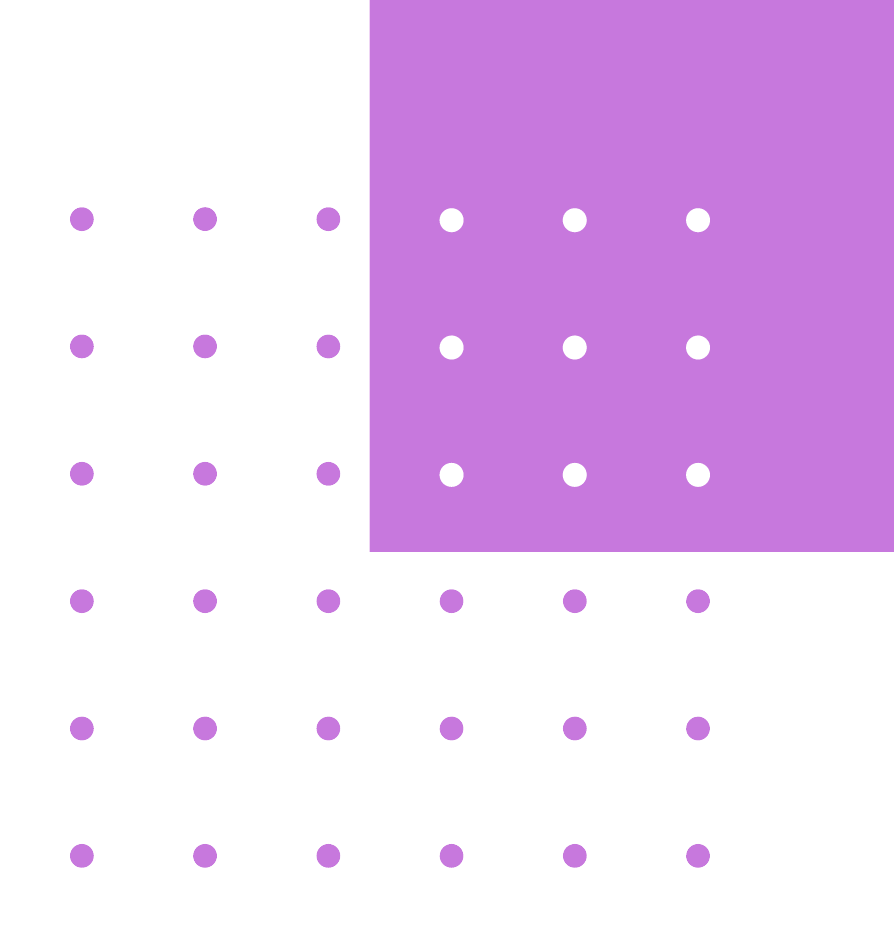
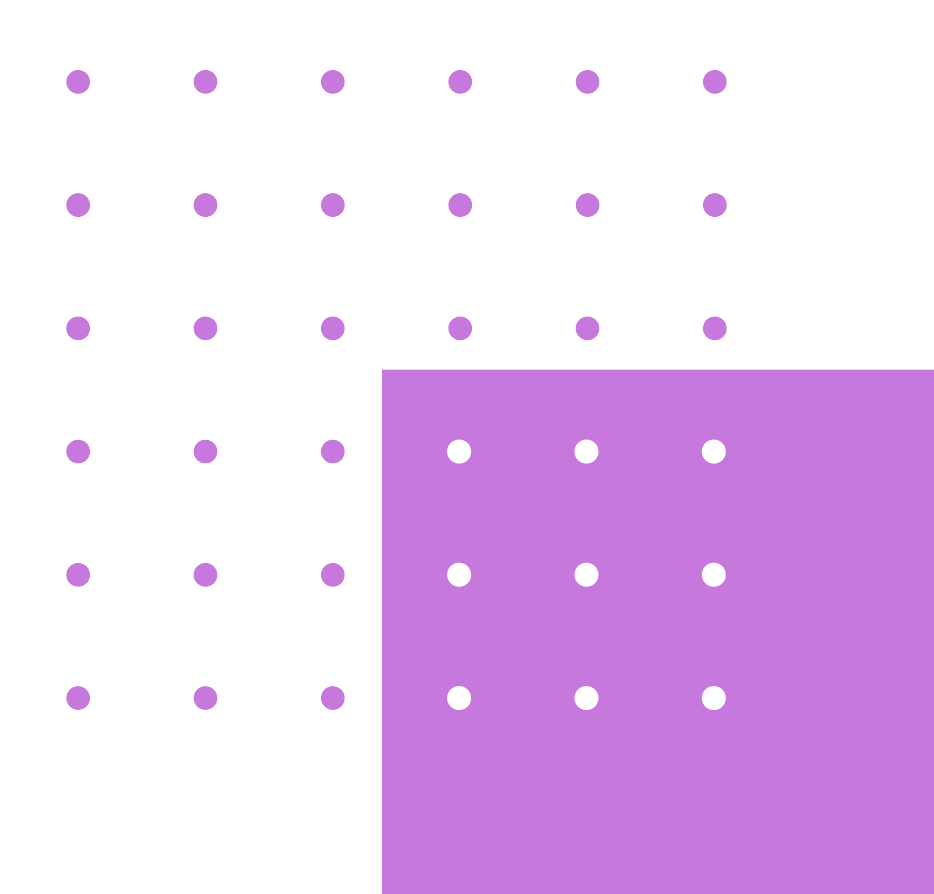
ajuste scroll início

diff --git a/src/utils/mocks.js b/src/utils/mocks.js
@@ -20,6 +20,7 @@ export const projects = [
     description:
       "Aplicação web de filmes personalizável que consome a API do The Movie Database, onde o usuário pode se cadastrar e fazer login, salvar filmes, avaliar, favoritar e fazer pesquisas. Caso queira testar a aplicação, utilize essas credenciais: email: teste2024@email.com, senha: 123456",
     video: appFilmesGif,
+    date: "02/2023"
   },
   {
     id: 2,
@@ -30,6 +31,7 @@ export const projects = [
     description:
       "Aplicação web de lista de tarefas completa que possui autenticação, listas principais já prontas e opção de criar novas listas, com possibilidade de personalizar a imagem de fundo de cada uma. As tarefas possuem opção de inserir data e repetição diária, semanal ou mensal, também é possível editar as informações inseridas, adicionar anotações e excluir uma tarefa.",
     video: toDoListGif,
+    date: "03/2023"
   },
   {
     id: 3,
@@ -41,6 +43,7 @@ export const projects = [
     description:
       "Esse projeto foi desenvolvido em equipe durante o bootcamp Java Fullstack, se trata de uma aplicação web para administração de biblioteca, onde é possível cadastrar livros e fazer empréstimos. O usuário/bibliotecário pode visualizar as informações de empréstimos de livros em tabela, editar o empréstimo ou alterar na tabela o status para devolvido.",
     video: bibliotechGif,
+    date: "11/2022"
   },
   {
     id: 4,
@@ -51,6 +54,7 @@ export const projects = [
     description:
       "Página da web que possibilita adicionar informações de livros através de um formulário e exibi-los em formato de card, com capa, título, autor e uma nota pessoal. Foram utilizados as ferramentas do Angular: DataBinding, Diretivas e Comunicação entre componentes para fazer a interação entre os dados inseridos no formulário e a exibição dos cards e para adicionar a opção de excluir um card.",
     video: livrariaGif,
+    date: "11/2022"
   },
   {
     id: 5,
@@ -61,7 +65,8 @@ export const projects = [
     deploy: "https://daniflav94.github.io/Site_Clone_Cinema/",
     description:
       "Aplicação clone do site de cinema da minha cidade Cinearaújo, desenvolvido no início dos meus estudos para praticar HTML e CSS.",
-    video: cloneCinemaGif
+    video: cloneCinemaGif,
+    date: "10/2022"
   },
 ];
 

diff --git a/src/pages/home.jsx b/src/pages/home.jsx
@@ -13,19 +13,21 @@ import { projects } from "../utils/mocks";
 export function Home() {
   const { darkMode } = useContext(DarkModeContext);
 
+  let height = window.screen.height;
+
   return (
     <section
       id="home"
-      className="dark:bg-midnight bg-zinc-100 md:h-screen "
+      className={`dark:bg-midnight bg-zinc-100 md:h-[95vh] relative ${height <= 770 ? "py-20 md:h-[105vh]" : "mt-16"}`}   
     >
       <ContactsBottom />
 
       <img
         src={`${darkMode ? pontilhado : pontilhadoBranco}`}
-        className="w-36 hidden md:flex md:absolute right-0 top-0 z-[99999]"
+        className={`w-36 hidden md:flex md:absolute right-0 bottom-0 z-[99999]`}
         alt="quadrado pontilhado"
       />
-      <div className="inline-block mx-10 my-10 md:mx-0 md:my-0 md:flex md:justify-center md:items-center w-screen md:h-full">
+      <div className="inline-block mx-10 my-10 md:mx-0 md:my-10 md:flex md:justify-center md:items-center w-screen md:h-screen">
         <div className="relative">
           <img
             src={imageProfile}

diff --git a/src/components/modalProject.jsx b/src/components/modalProject.jsx
@@ -14,6 +14,7 @@ export function ModalProject({ project }) {
             <h2 className="dark:text-zinc-50 text-zinc-600 font-medium md:text-3xl text-2xl">
               {project.title}
             </h2>
+            <span className="dark:text-zinc-200">Data: {project.date}</span>
             <span className="dark:text-gray text-zinc-500 font-sans ">{project.description}</span>
             <div className="flex flex-wrap md:gap-3 gap-2">
               {project?.stacks.map((stack, key) => (

diff --git a/src/components/navbar.jsx b/src/components/navbar.jsx
@@ -41,9 +41,9 @@ export function Navbar() {
             }
             onClick={() => widthScreen < 768 && setOpenMenu(false)}
           >
-            <a href="#home">
+            <button onClick={() => window.scrollTo(0, 0)}>
               <span className="text-lilac">#</span>início
-            </a>
+            </button>
           </li>
           <li
             className={

diff --git a/src/App.js b/src/App.js
@@ -13,13 +13,11 @@ function App() {
   return (
     <div className={`${darkMode && "dark"} relative`}>
       <Navbar />
-      <div className="md:mt-16">
         <Home />
         <About />
         <Skills />
         <Projects />
         <Contact />
-      </div>
     </div>
   );
 }

diff --git a/tailwind.config.js b/tailwind.config.js
@@ -30,7 +30,7 @@ export default {
         }
       },
       animation: {
-        wiggle: 'wiggle 1s ease infinite',
+        wiggle: 'wiggle 0.6s ease',
         upButton: 'upButton 0.25s ease-in-out'
       }
     },
